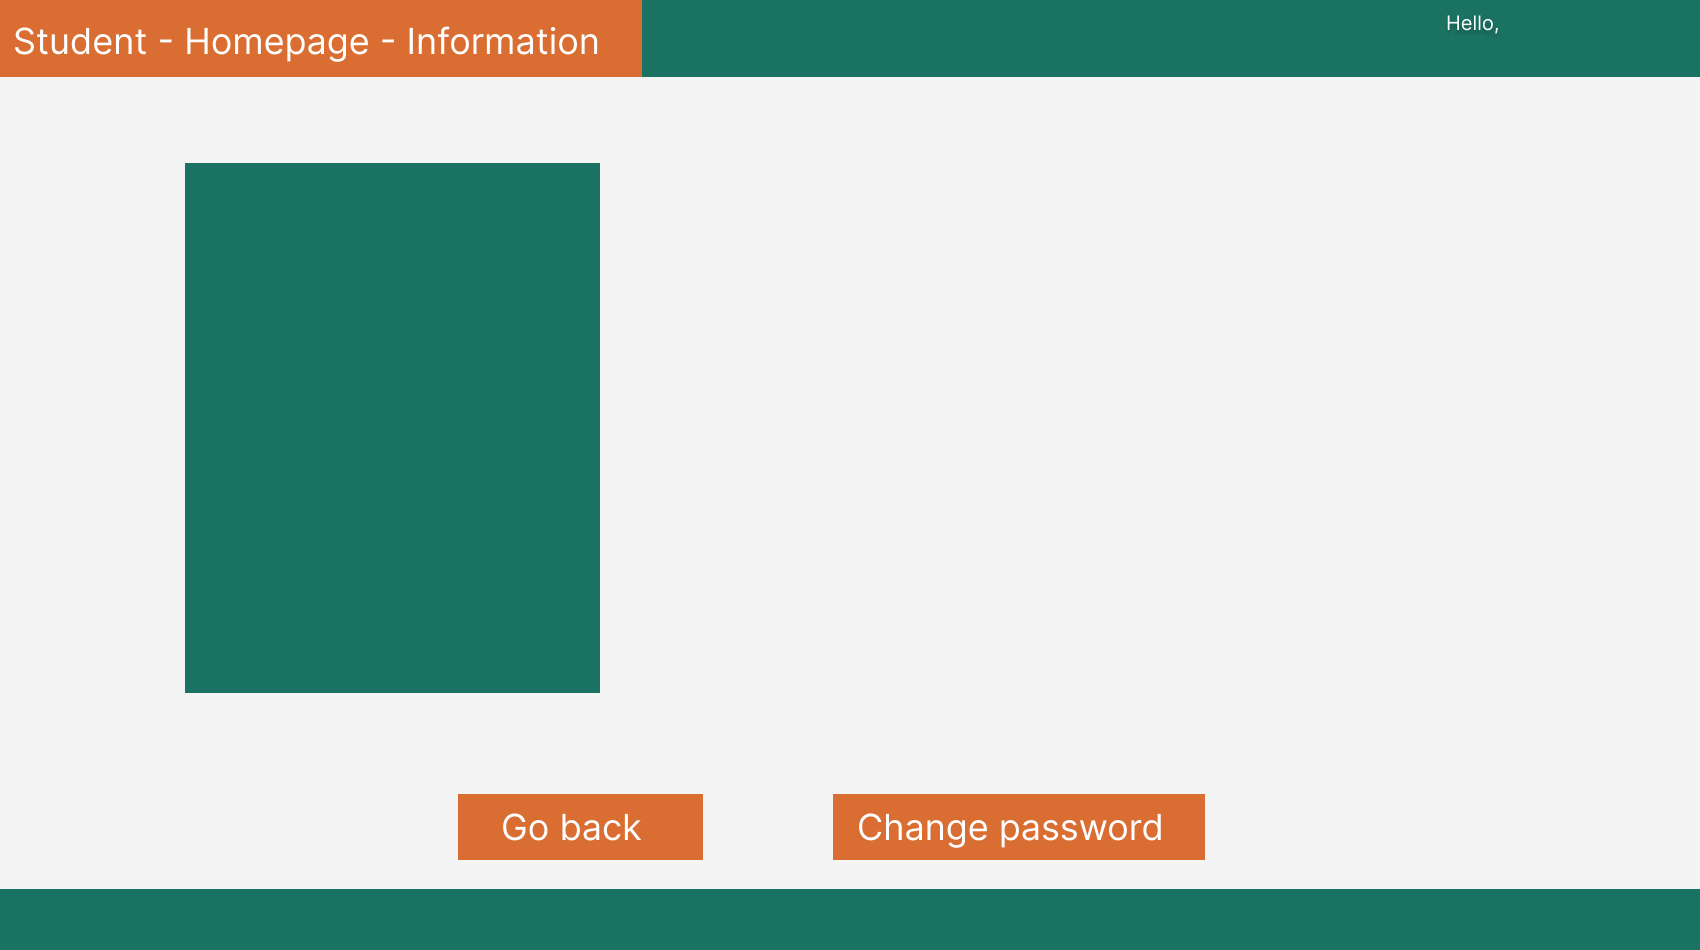
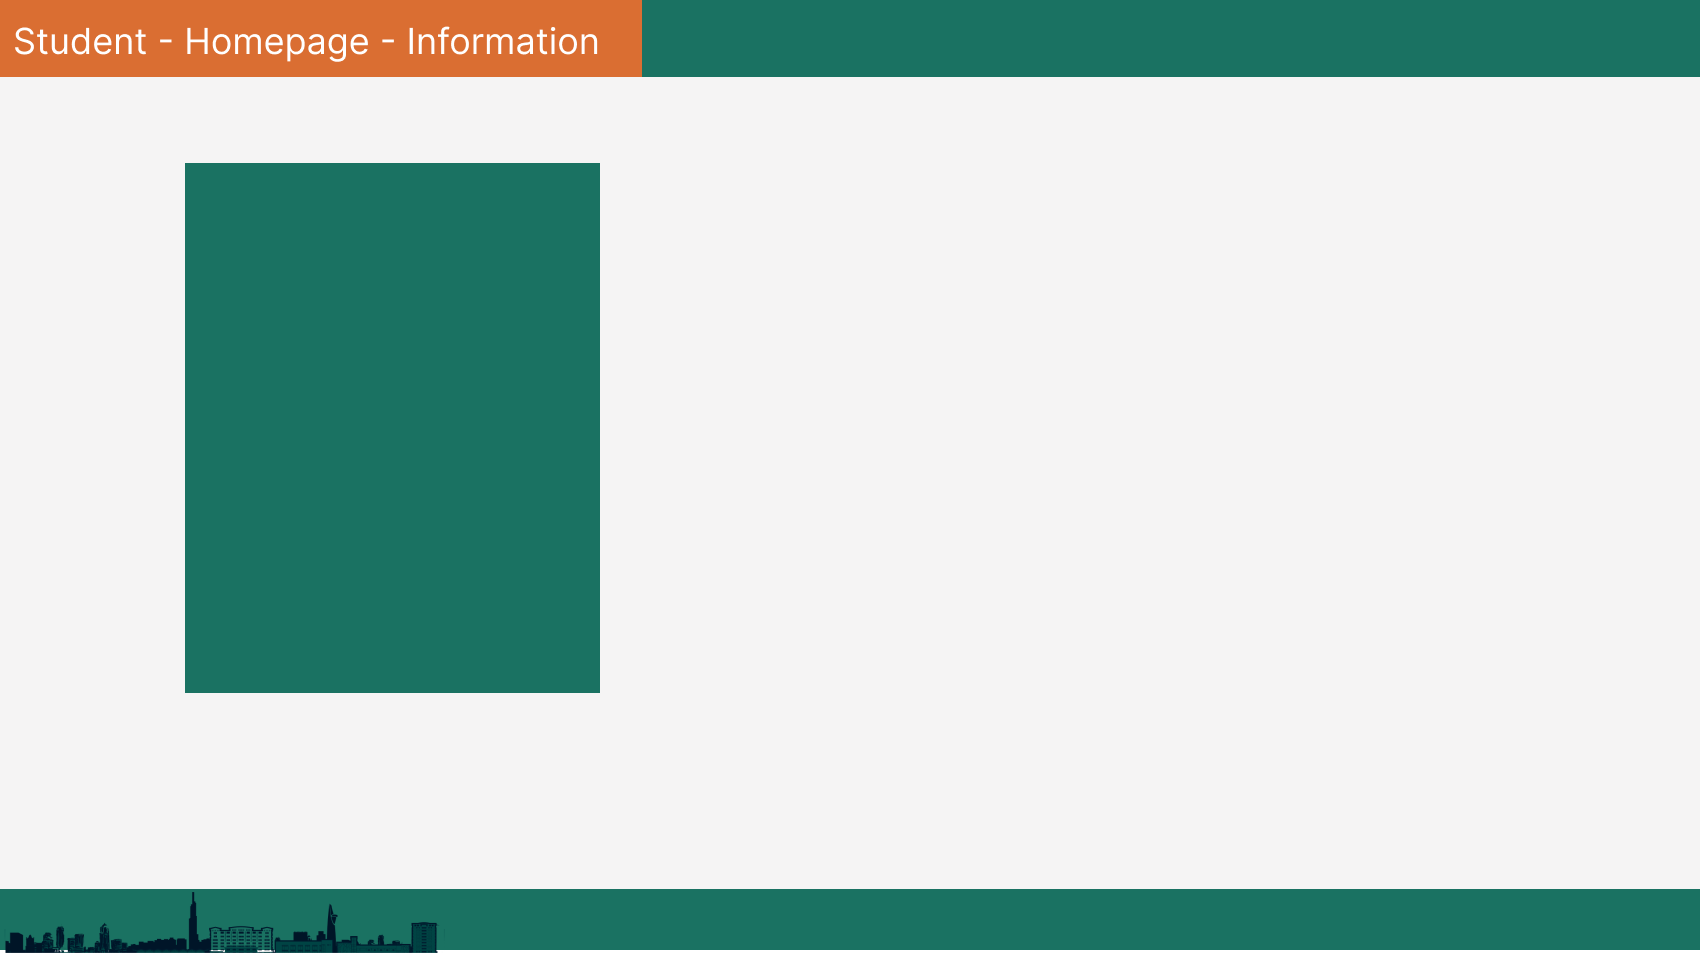
feat: Create a calendar (not yet finished) + Recorrect the assest

Changed region(s): [[0.0, 0.8242, 1.0, 1.0], [0.1247, 0.7021, 0.3429, 0.7326], [0.8418, 0.0, 0.8729, 0.0305]]

diff --git a/SFML/Activity.cpp b/SFML/Activity.cpp
@@ -4,8 +4,10 @@
 
 
 User user;
+Calendar calendar;
 
 vector<std::string> schoolYear = getYearFolder();
+
 
 //Finished
 void Activity::initLoginWindow(sf::RenderWindow &window)
@@ -79,7 +81,7 @@ void Activity::initHomePageStudentWindow(sf::RenderWindow &window)
 {
     
 
-    Text name(1505, 10, user.fullname, font, sf::Color(255, 255, 255), 20);
+    Text name(1446, 10, "Hello, " + user.fullname, font, sf::Color(255, 255, 255), 20);
     Text datetime(1446, 40, EF::getDateTime(), font, sf::Color(255, 255, 255), 20);
     Button yourCourse(130, 162, 521, 90, "Your course", font, sf::Color(218, 110, 50));
     Button viewScore(130, 307, 521, 93, "View your score", font, sf::Color(218, 110, 50));
@@ -125,8 +127,8 @@ void Activity::initHomePageStudentWindow(sf::RenderWindow &window)
 
         name.draw(window);
         datetime.draw(window);
-        yourCourse.draw(window);
-        viewScore.draw(window);
+        //yourCourse.draw(window);
+        //viewScore.draw(window);
         userIcon.draw(window);
 
         window.display();
@@ -138,7 +140,7 @@ void Activity::initHomePageStudentWindow(sf::RenderWindow &window)
 void Activity::initInformationStudentWindow(sf::RenderWindow& window)
 {
 
-    Text name(1505, 10, user.fullname, font, sf::Color(255, 255, 255), 20);
+    Text name(1446, 10,"Hello, " + user.fullname, font, sf::Color(255, 255, 255), 20);
     Text datetime(1446, 40, EF::getDateTime(), font, sf::Color(255, 255, 255), 20);
     Circle userIcon(1403, 40, 28, "Assets/userIcon.png", sf::Color(255, 250, 250));
     Button goBack(458, 794, 245, 66, "Go back", font, sf::Color(218, 110, 50));
@@ -199,7 +201,7 @@ void Activity::initInformationStudentWindow(sf::RenderWindow& window)
 // Not yet finished - Do not have data
 void Activity::changePasswordStudentWindow(sf::RenderWindow& window)
 {
-    Text name(1505, 10, user.fullname, font, sf::Color(255, 255, 255), 20);
+    Text name(1446, 10,"Hello, " + user.fullname, font, sf::Color(255, 255, 255), 20);
     Text datetime(1446, 40, EF::getDateTime(), font, sf::Color(255, 255, 255), 20);
     Circle userIcon(1403, 40, 28, "Assets/userIcon.png", sf::Color(255, 250, 250));
     Button goBackBtn(458, 794, 245, 66, "Go back", font, sf::Color(218, 110, 50));
@@ -380,8 +382,13 @@ void Activity::initHomePageStaffWindow(sf::RenderWindow& window)
 {
     Text name(1446, 10, "Hello, " + user.fullname, font, sf::Color(255, 255, 255), 20);
     Text datetime(1446, 40, EF::getDateTime(), font, sf::Color(255, 255, 255), 20);
+    Text days(1390, 133, "Mo Tu We Th Fr Sa Su", font, sf::Color(26, 114, 98), 25);
+    Text newCalendar(1384, 169, calendar.text.getString().toAnsiString(), font, sf::Color(26, 114, 98), 25);
+
     Circle userIcon(1403, 40, 28, "Assets/userIcon.png", sf::Color(255, 250, 250));
     Button createSYButn(89, 106, 393, 54.59, "Create School Year", font, sf::Color(144, 44, 44));
+    Button viewAllCoursesBtn(1375, 436, 300, 55, "View all courses", font, sf::Color(144, 44, 44));
+    
 
     vector<Button> schoolYearButton; 
     for (int i = 0; i < min(schoolYear.size(), 3LL); ++i)
@@ -433,17 +440,26 @@ void Activity::initHomePageStaffWindow(sf::RenderWindow& window)
         }
         window.clear(sf::Color::White);
         window.draw(background);
+        window.draw(calendar.text);
+        std::cout << calendar.text.getString().toAnsiString() << std::endl;
 
         name.draw(window);
         datetime.draw(window);
         userIcon.draw(window);
         name.draw(window);
         createSYButn.draw(window);
+        viewAllCoursesBtn.draw(window);
+        days.draw(window);
+        newCalendar.draw(window);
+
         for (int i = 0; i < schoolYear.size(); ++i)
         {
             schoolYearButton[i].draw(window); 
         }
+        
+        
         window.display();
+
         
     }
         return;
@@ -452,7 +468,7 @@ void Activity::initHomePageStaffWindow(sf::RenderWindow& window)
 void Activity::initInformationStaffWindow(sf::RenderWindow& window)
 {
     //InformationStaff.png
-    Text name(1505, 10, user.fullname, font, sf::Color(255, 255, 255), 20);
+    Text name(1505, 10,"Hello, " + user.fullname, font, sf::Color(255, 255, 255), 20);
     Text datetime(1446, 40, EF::getDateTime(), font, sf::Color(255, 255, 255), 20);
     Circle userIcon(1403, 40, 28, "Assets/userIcon.png", sf::Color(255, 250, 250));
     Button goBack(458, 794, 245, 66, "Go back", font, sf::Color(218, 110, 50));

diff --git a/SFML/Components.h b/SFML/Components.h
@@ -232,6 +232,10 @@ public:
         text.setPosition(x, y);
     }
 
+    std::string getContent() {
+        return text.getString();
+    }
+
     // Set text string
     void setString(const std::string& str) {
         text.setString(str);
@@ -258,4 +262,54 @@ public:
     }
 };
 
+class Calendar {
+public:
+    sf::Font font;
+    sf::Text text;
+    Calendar(sf::Font font) {
+        this->font = font;
+        system("python calendar.py");
+        std::ifstream fin;
+        fin.open("data/calendar.txt");
+        std::string s = "", temp;
+        getline(fin, temp);
+        s = s + '\n' + temp;
+        fin.close();
 
+        // Text(float x, float y, const std::string& content, sf::Font& font, const sf::Color& color, unsigned int size) {
+
+        Text calendar(1402, 207, s, font, sf::Color(0, 0, 0), 25);
+        Text days(1384, 133, "Mo Tu We Th Fr Sa Su", font, sf::Color(26, 114, 98), 25);
+
+    }
+
+    Calendar() {
+        system("python calendar.py");
+        std::ifstream fin;
+        fin.open("data/calendar.txt");
+        if (!fin.is_open())
+            std::cout << "Could not open the calendar file" << std::endl;
+
+        std::string s = "", temp;
+        while (!fin.eof()) {
+            getline(fin, temp);
+            s = s + '\n' + temp;
+        }
+        
+        fin.close();
+
+        // Text(float x, float y, const std::string& content, sf::Font& font, const sf::Color& color, unsigned int size) {
+
+        text.setFont(font);
+        text.setCharacterSize(25);
+        text.setFillColor(sf::Color(100, 100,100));
+        text.setString(s);
+        text.setPosition(1384, 169);
+
+        //std::cout << text.getString().toAnsiString() << std::endl;
+    }
+
+    void draw(sf::RenderWindow& window){
+        window.draw(text);
+    }
+};

diff --git a/SFML/Calendar.py b/SFML/Calendar.py
@@ -2,37 +2,48 @@ import calendar
 from datetime import datetime
 
 def generate_calendar_text():
+    # Get current year and month
     now = datetime.now()
     current_year = now.year
     current_month = now.month
 
+    # Create a calendar for the current month and year
     cal = calendar.monthcalendar(current_year, current_month)
+
+    # Get the name of the month
     month_name = datetime.strftime(now, "%B")
+
+    # Prepare the calendar text
     calendar_text = []
 
-
+    # Find the weekday index of the 1st day of the month (0 = Monday, 6 = Sunday)
     first_day_weekday = datetime(current_year, current_month, 1).weekday()
+
+    # Generate each week's data
     for week in cal:
         week_str = ''
         for day in week:
             if day == 0:
-                week_str += '   '  
+                week_str += '   '  # Print empty space for days outside the month
             else:
                 if len(week_str) > 0:
-                    week_str += ' '  
+                    week_str += ' '  # Add space between days
                 if len(week_str) < first_day_weekday * 3:
-                    week_str += '00'  
-                week_str += f"{day:2}"  
+                    week_str += '00'  # Add '00' for days before the 1st day of the month
+                week_str += f"{day:2}"  # Format day number with leading space
         calendar_text.append(week_str + '\n')
 
     return calendar_text
 
 def save_calendar_to_file():
+    # Generate calendar text
     calendar_text = generate_calendar_text()
 
+    # Write calendar text to file
     with open("data/calendar.txt", "w") as file:
         file.writelines(calendar_text)
 
     print("Calendar saved to calendar.txt")
 
+# Call the function to save the calendar to a file
 save_calendar_to_file()

diff --git a/SFML/Student.h b/SFML/Student.h
@@ -6,10 +6,9 @@ namespace fsys = std::filesystem;
 class Student 
 {
 private:
-
-
 	fsys::path studentPath;
 	User user;
+
 	//more information about student
 public: 
 	Student() {}

diff --git a/SFML/SchoolYear.h b/SFML/SchoolYear.h
@@ -60,4 +60,3 @@
 //		return true;
 //	}
 //};
-#include "Requirement.h"
